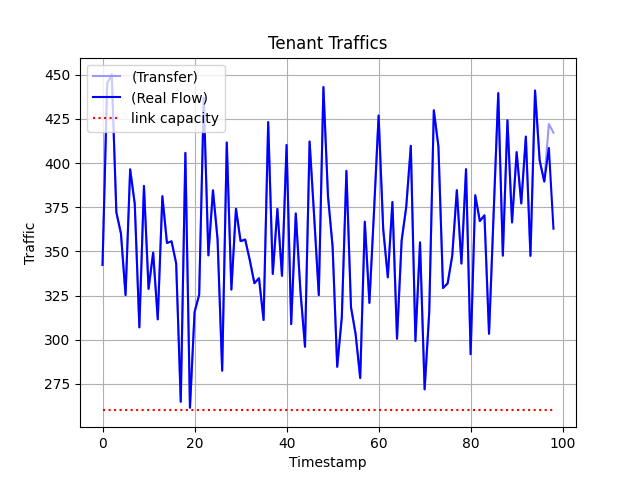
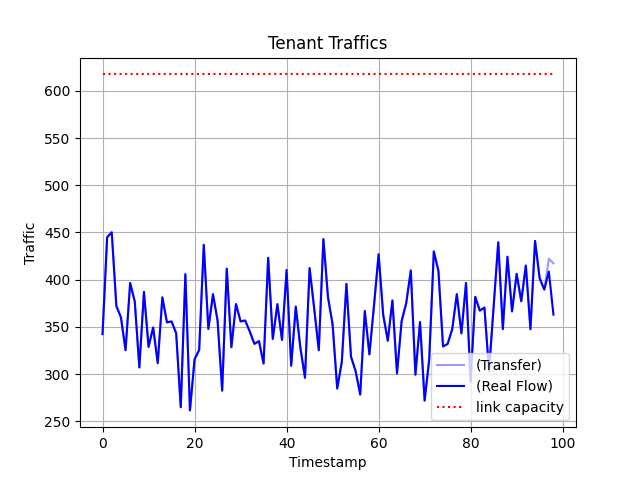
[Simgle V3 MVP] Add twice iteration

diff --git a/Simulation/Quelle/Simple_V3_MVP.c b/Simulation/Quelle/Simple_V3_MVP.c
@@ -11,9 +11,33 @@
 // ../Ausführung/Simple_V3_MVP
 // #define INFORM_BUCKET_SITUATION
 
+double read_double_from_file(const char *filename) {
+    FILE *file;
+    double value;
+
+    // Open the file in read mode
+    file = fopen(filename, "r");
+    if (file == NULL) {
+        perror("Error opening file");
+        return -1.0;  // Return an error value if file can't be opened
+    }
+
+    // Read the double value from the file
+    if (fscanf(file, "%lf", &value) != 1) {
+        perror("Error reading double from file");
+        fclose(file);
+        return -1.0;   // Return an error value if reading fails
+    }
+
+    // Close the file
+    fclose(file);
+
+    return value;
+}
+
 int main(int argc, char *argv[]){
 
-    double capacity = 260;
+    double capacity = 360;
     int tenant_number = 3;
     long time_interval = 100;
     double mean = 120;
@@ -115,8 +139,20 @@ end_distinguish :
     sprintf(command, "python3 "PYTHON_IMAGE_PATH" 3 %f", capacity);
     system(command);
 #endif
+#ifndef RECORD
+    char command[MAX_COMMAND_LENGTH];
+#endif
+    sprintf(command, "python3 ./CVXPY.py %f", capacity);
+    system(command);
+    printf("alpha = %f\n", read_double_from_file("../Datei/objective.txt"));
+    
+    capacity = read_double_from_file("../Datei/objective.txt")*capacity;
+    sprintf(command, "python3 "PYTHON_IMAGE_PATH" 3 %f", capacity);
+    system(command);
 
-    FILE* CVXPY_file;
-    CVXPY_file = fopen(BUCKET_DATA_STORED_PATH, "w+");
+    sprintf(command, "python3 ./CVXPY.py %f", capacity);
+    system(command);
+    printf("alpha = %f\n", read_double_from_file("../Datei/objective.txt"));
+
     return EXIT_SUCCESS;
 }

diff --git a/Simulation/Quelle/CVXPY.py b/Simulation/Quelle/CVXPY.py
@@ -1,6 +1,7 @@
 import cvxpy
 import numpy
 import math
+import sys
 
 DATEI_OBJECTIVE_WEG = "../Datei/objective.txt"
 DATEI_FRACTION_WEG = "../Datei/fraction.csv"
@@ -8,7 +9,7 @@ DATEI_FRACTION_WEG = "../Datei/fraction.csv"
 nodes = 5
 edges = 4
 pairs = 3
-capacity = 360.000000 #*86.83*1.0000995174
+capacity = float(sys.argv[1])
 error = 0.100000
 mean_mu = 120
 standard_derivation_sigma = 40
